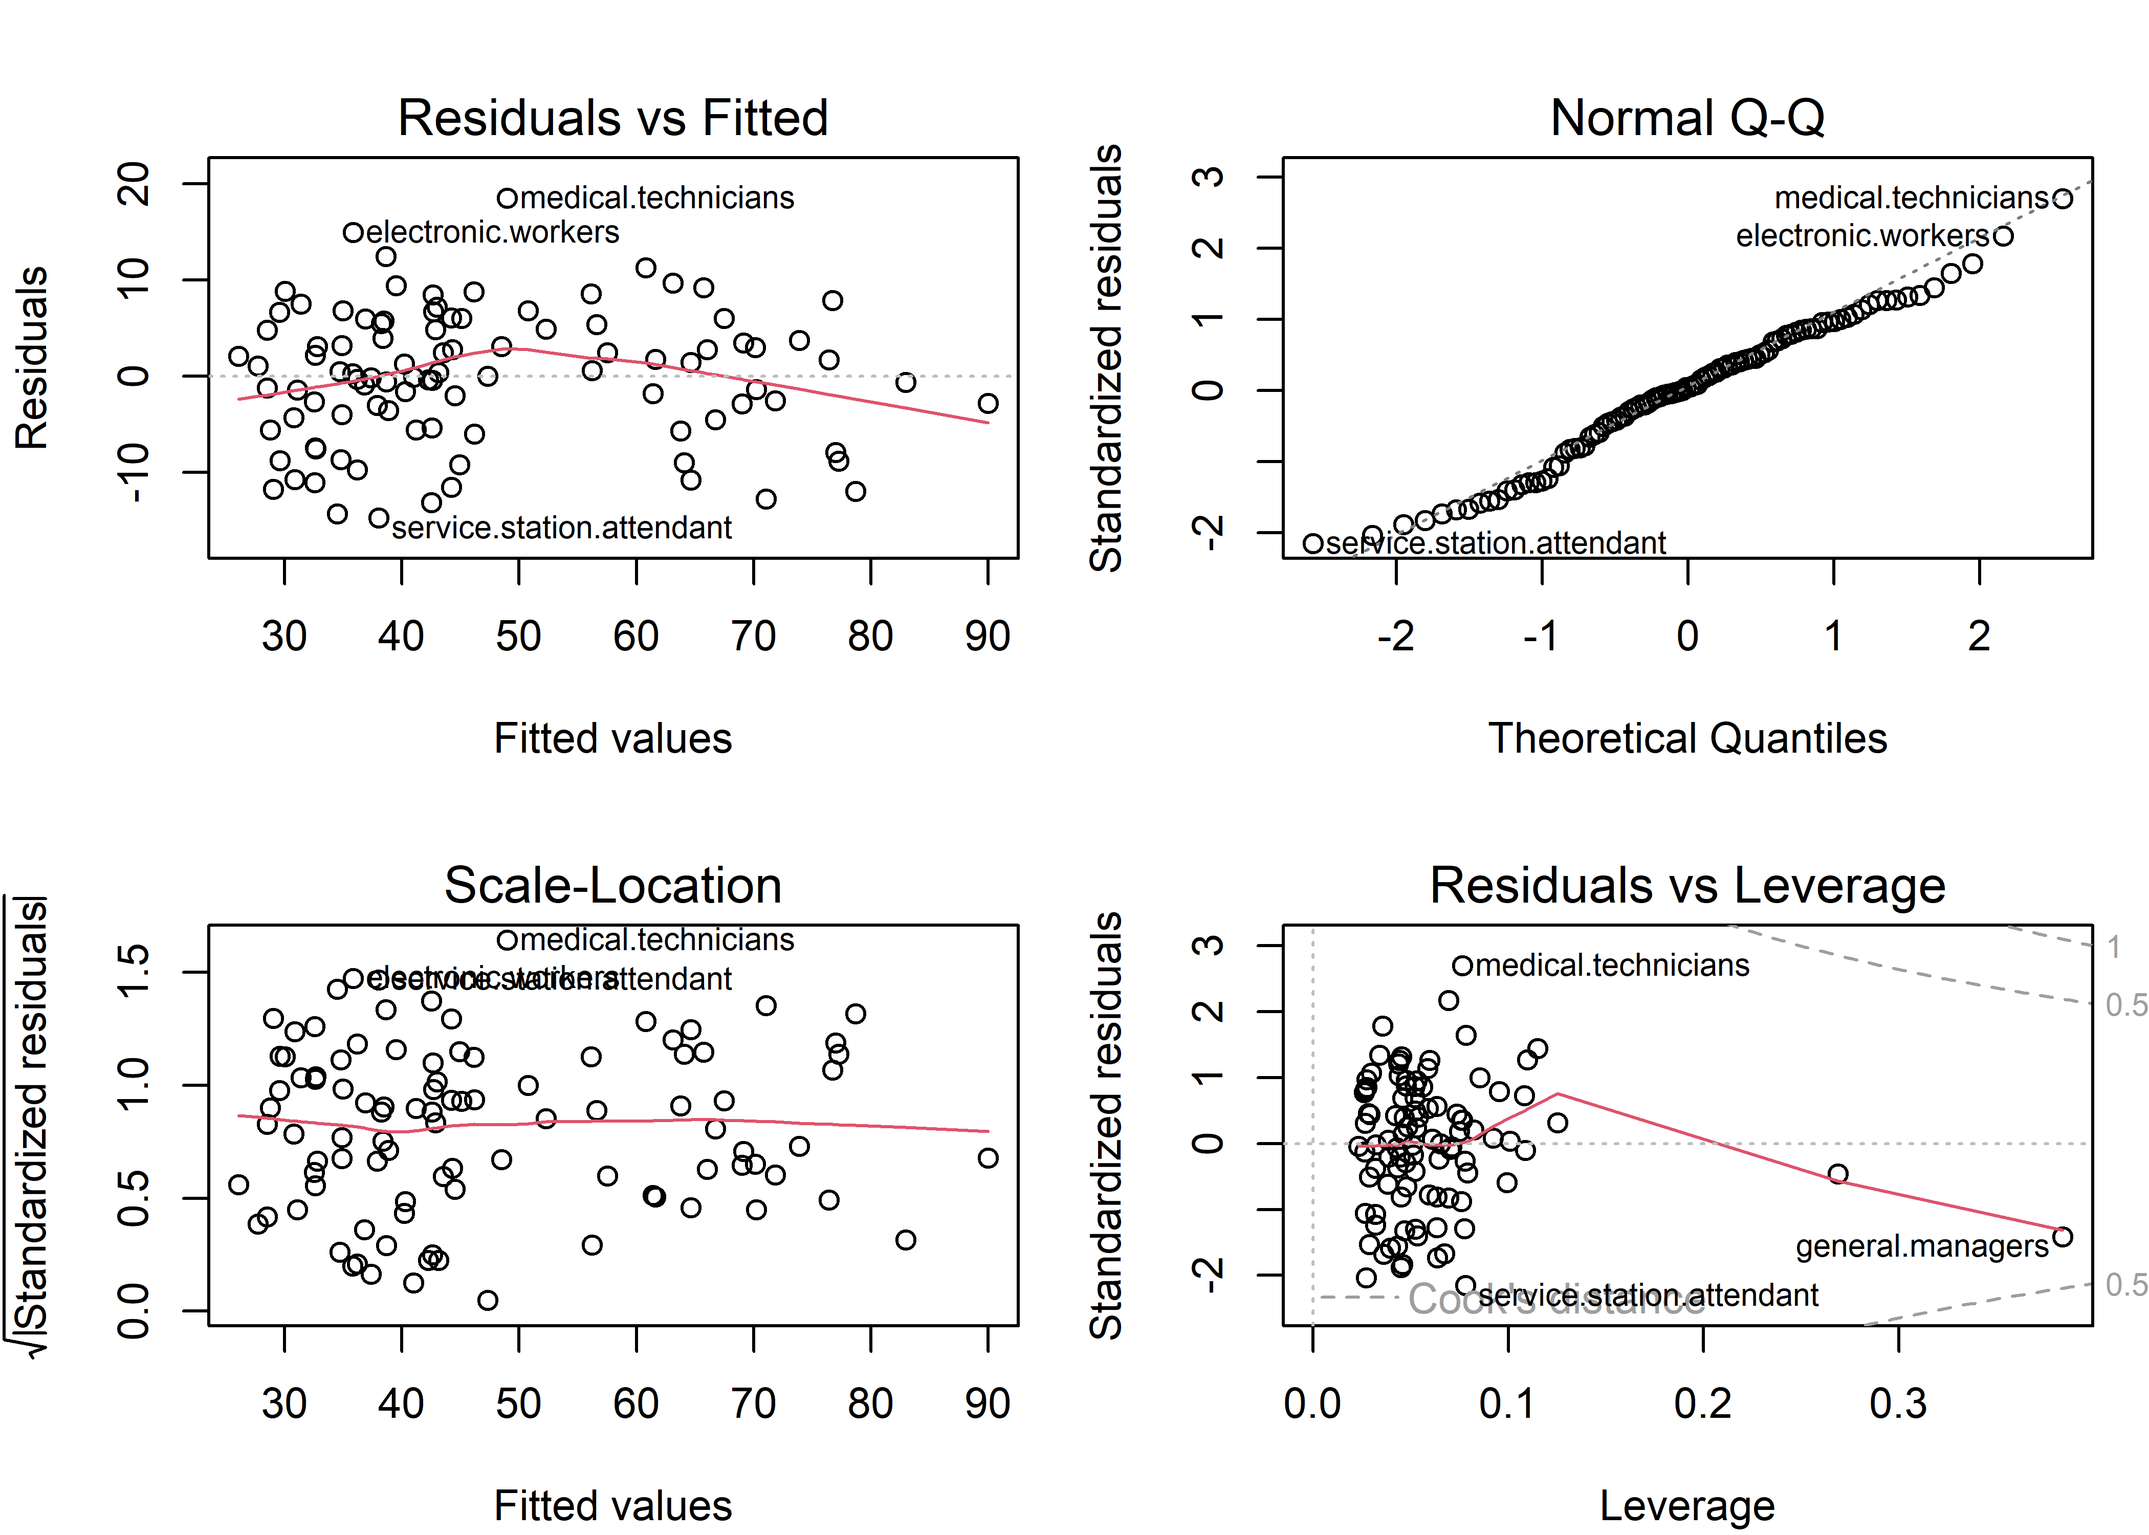
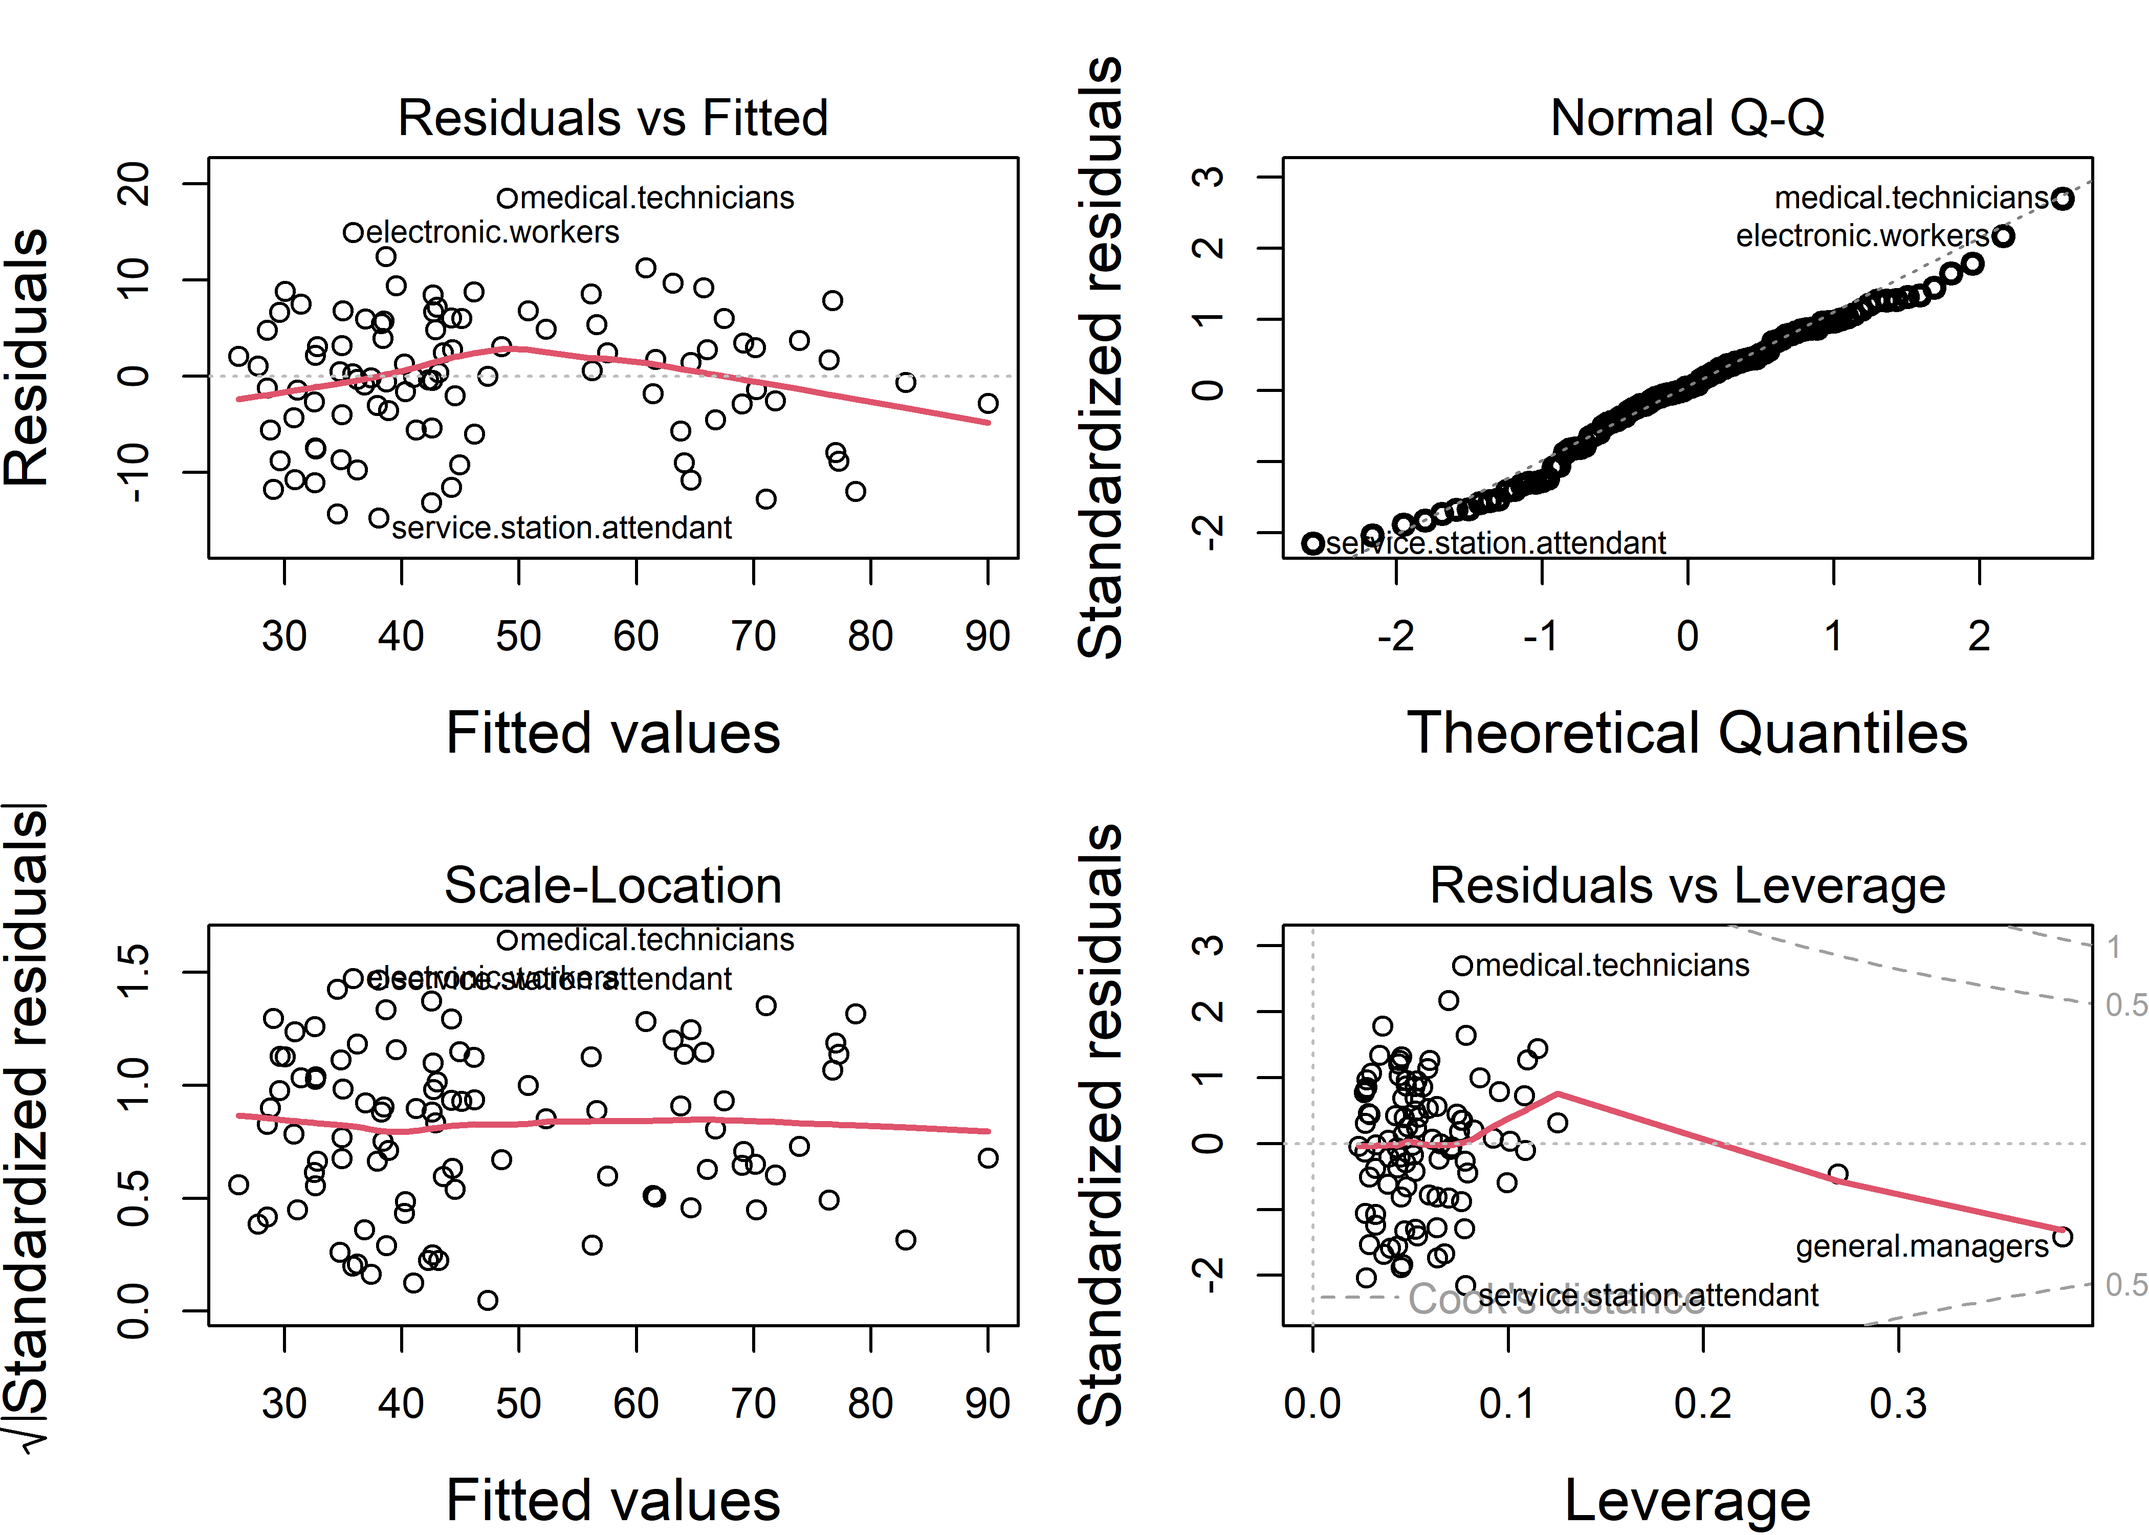
linear-models-plots.qmd

diff --git a/_book/linear_models-plots.html b/_book/linear_models-plots.html
@@ -227,7 +227,7 @@ div.csl-indent {
 </li>
         <li class="sidebar-item">
   <div class="sidebar-item-container"> 
-  <a href="./references.html" class="sidebar-item-text sidebar-link"><span class="chapter-number">12</span>&nbsp; <span class="chapter-title">| echo: false</span></a>
+  <a href="./references.html" class="sidebar-item-text sidebar-link">References</a>
   </div>
 </li>
     </ul>
@@ -266,7 +266,7 @@ div.csl-indent {
 <li><p>when there are two or more predictors, you can more easily understand their separate impact on the response by plotting the <em>marginal</em> effects of one or more focal variables, averaging over other variables not shown in a given plot.</p></li>
 <li><p>when there are highly correlated predictors, some specialized plots are useful to understand the nature of <em>multicolinearity</em>.</p></li>
 </ul>
-<p>The classic reference on regression diagnostics is <span class="citation" data-cites="Belsley-etal:80">Belsley, Kuh, and Welsch (<a href="#ref-Belsley-etal:80" role="doc-biblioref">1980</a>)</span>. My favorite modern texts are the brief <span class="citation" data-cites="Fox2020">J. D. Fox (<a href="#ref-Fox2020" role="doc-biblioref">2020</a>)</span> and <span class="citation" data-cites="FoxWeisberg:2018">J. Fox and Weisberg (<a href="#ref-FoxWeisberg:2018" role="doc-biblioref">2018</a>)</span>, which is supported by the <strong>car</strong> package <span class="citation" data-cites="R-car">(<a href="#ref-R-car" role="doc-biblioref">J. Fox, Weisberg, and Price 2023</a>)</span>.</p>
+<p>The classic reference on regression diagnostics is <span class="citation" data-cites="Belsley-etal:80">Belsley, Kuh, and Welsch (<a href="#ref-Belsley-etal:80" role="doc-biblioref">1980</a>)</span>. My favorite modern texts are the brief <span class="citation" data-cites="Fox2020">Fox (<a href="#ref-Fox2020" role="doc-biblioref">2020</a>)</span> and <span class="citation" data-cites="FoxWeisberg:2018">Fox and Weisberg (<a href="#ref-FoxWeisberg:2018" role="doc-biblioref">2018</a>)</span>, which is supported by the <strong>car</strong> package <span class="citation" data-cites="R-car">(<a href="#ref-R-car" role="doc-biblioref">Fox, Weisberg, and Price 2023</a>)</span>.</p>
 <section id="the-regression-quartet" class="level2" data-number="5.1"><h2 data-number="5.1" class="anchored" data-anchor-id="the-regression-quartet">
 <span class="header-section-number">5.1</span> The “regression quartet”</h2>
 <p>For a fitted model, plotting the model object with <code>plot(model)</code> provides for any of six basic plots, of which four are produced by default, giving rise to the term <em>regression quartet</em> for this collection. These are:</p>
@@ -303,15 +303,15 @@ div.csl-indent {
 <div class="cell" data-layout-align="center">
 <div class="sourceCode" id="cb3"><pre class="downlit sourceCode r code-with-copy"><code class="sourceCode R"><span><span class="va">op</span> <span class="op">&lt;-</span> <span class="fu"><a href="https://rdrr.io/r/graphics/par.html">par</a></span><span class="op">(</span>mfrow <span class="op">=</span> <span class="fu"><a href="https://rdrr.io/r/base/c.html">c</a></span><span class="op">(</span><span class="fl">2</span>,<span class="fl">2</span><span class="op">)</span>, </span>
 <span>          mar<span class="op">=</span><span class="fu"><a href="https://rdrr.io/r/base/c.html">c</a></span><span class="op">(</span><span class="fl">4</span>,<span class="fl">4</span>,<span class="fl">3</span>,<span class="fl">1</span><span class="op">)</span><span class="op">+</span><span class="fl">.1</span><span class="op">)</span></span>
-<span><span class="fu"><a href="https://rdrr.io/r/graphics/plot.default.html">plot</a></span><span class="op">(</span><span class="va">prestige.mod</span><span class="op">)</span></span></code><button title="Copy to Clipboard" class="code-copy-button"><i class="bi"></i></button></pre></div>
+<span><span class="fu"><a href="https://rdrr.io/r/graphics/plot.default.html">plot</a></span><span class="op">(</span><span class="va">prestige.mod</span>, lwd<span class="op">=</span><span class="fl">2</span>, cex.lab<span class="op">=</span><span class="fl">1.4</span><span class="op">)</span></span>
+<span><span class="fu"><a href="https://rdrr.io/r/graphics/par.html">par</a></span><span class="op">(</span><span class="va">op</span><span class="op">)</span></span></code><button title="Copy to Clipboard" class="code-copy-button"><i class="bi"></i></button></pre></div>
 <div class="cell-output-display">
 <div class="quarto-figure quarto-figure-center">
 <figure class="figure"><p><img src="figs/plot-prestige-mod-1.png" class="img-fluid figure-img" style="width:100.0%"></p>
-<p></p><figcaption class="figure-caption">Regression quartet of diagnostic plots for the <code>Prestige</code> data.</figcaption><p></p>
+<p></p><figcaption class="figure-caption">Regression quartet of diagnostic plots for the <code>Prestige</code> data. Several possibly unusual observations are labeled.</figcaption><p></p>
 </figure>
 </div>
 </div>
-<div class="sourceCode" id="cb4"><pre class="downlit sourceCode r code-with-copy"><code class="sourceCode R"><span><span class="fu"><a href="https://rdrr.io/r/graphics/par.html">par</a></span><span class="op">(</span><span class="va">op</span><span class="op">)</span></span></code><button title="Copy to Clipboard" class="code-copy-button"><i class="bi"></i></button></pre></div>
 </div>
 </section></section><section id="other-diagnostic-plots" class="level2" data-number="5.2"><h2 data-number="5.2" class="anchored" data-anchor-id="other-diagnostic-plots">
 <span class="header-section-number">5.2</span> Other Diagnostic plots</h2>
@@ -336,7 +336,7 @@ div.csl-indent {
 Belsley, D. A., E. Kuh, and R. E. Welsch. 1980. <em>Regression Diagnostics: Identifying Influential Data and Sources of Collinearity</em>. New York: John Wiley; Sons.
 </div>
 <div id="ref-Fox2020" class="csl-entry" role="doc-biblioentry">
-Fox, John David. 2020. <em>Regression Diagnostics</em>. 2nd ed. <span>SAGE</span> Publications, Inc. <a href="https://doi.org/10.4135/9781071878651">https://doi.org/10.4135/9781071878651</a>.
+Fox, John. 2020. <em>Regression Diagnostics</em>. 2nd ed. <span>SAGE</span> Publications, Inc. <a href="https://doi.org/10.4135/9781071878651">https://doi.org/10.4135/9781071878651</a>.
 </div>
 <div id="ref-FoxWeisberg:2018" class="csl-entry" role="doc-biblioentry">
 Fox, John, and Sandford Weisberg. 2018. <em>An r Companion to Applied Regression</em>. Third. Thousand Oaks <span>CA</span>: SAGE Publications. <a href="https://books.google.ca/books?id=uPNrDwAAQBAJ">https://books.google.ca/books?id=uPNrDwAAQBAJ</a>.

diff --git a/_book/references.html b/_book/references.html
@@ -4,7 +4,7 @@
 <meta charset="utf-8">
 <meta name="generator" content="quarto-1.1.189">
 <meta name="viewport" content="width=device-width, initial-scale=1.0, user-scalable=yes">
-<title>Visualizing Multivariate Data and Models in R - 12&nbsp; Package used</title>
+<title>Visualizing Multivariate Data and Models in R - References</title>
 <style>
 code{white-space: pre-wrap;}
 span.smallcaps{font-variant: small-caps;}
@@ -79,9 +79,7 @@ div.csl-indent {
 
 <div id="quarto-search-results"></div>
   <header id="quarto-header" class="headroom fixed-top"><nav class="quarto-secondary-nav" data-bs-toggle="collapse" data-bs-target="#quarto-sidebar" aria-controls="quarto-sidebar" aria-expanded="false" aria-label="Toggle sidebar navigation" onclick="if (window.quartoToggleHeadroom) { window.quartoToggleHeadroom(); }"><div class="container-fluid d-flex justify-content-between">
-      <h1 class="quarto-secondary-nav-title">
-<span class="chapter-number">12</span>&nbsp; <span class="chapter-title">Package used</span>
-</h1>
+      <h1 class="quarto-secondary-nav-title">References</h1>
       <button type="button" class="quarto-btn-toggle btn" aria-label="Show secondary navigation">
         <i class="bi bi-chevron-right"></i>
       </button>
@@ -165,23 +163,17 @@ div.csl-indent {
 </li>
         <li class="sidebar-item">
   <div class="sidebar-item-container"> 
-  <a href="./references.html" class="sidebar-item-text sidebar-link active"><span class="chapter-number">12</span>&nbsp; <span class="chapter-title">| echo: false</span></a>
+  <a href="./references.html" class="sidebar-item-text sidebar-link active">References</a>
   </div>
 </li>
     </ul>
 </div>
 </nav><!-- margin-sidebar --><div id="quarto-margin-sidebar" class="sidebar margin-sidebar">
-        <nav id="TOC" role="doc-toc" class="toc-active"><h2 id="toc-title">Table of contents</h2>
-   
-  <ul>
-<li><a href="#references" id="toc-references" class="nav-link active" data-scroll-target="#references">References</a></li>
-  </ul></nav>
+        
     </div>
 <!-- main -->
 <main class="content" id="quarto-document-content"><header id="title-block-header" class="quarto-title-block default"><div class="quarto-title">
-<h1 class="title d-none d-lg-block">
-<span class="chapter-number">12</span>&nbsp; <span class="chapter-title">Package used</span>
-</h1>
+<h1 class="title d-none d-lg-block">References</h1>
 </div>
 
 
@@ -193,14 +185,11 @@ div.csl-indent {
   </div>
   
 
-</header><div class="cell">
+</header><div id="refs" role="doc-bibliography">
 
 </div>
+<section id="package-used" class="level4"><h4 class="anchored" data-anchor-id="package-used">Package used</h4>
 <div class="cell" data-layout-align="center">
-
-</div>
-<section id="references" class="level1 unnumbered"><h1 class="unnumbered">References</h1>
-<div id="refs" role="doc-bibliography">
 
 </div>
 

diff --git a/_book/summary.html b/_book/summary.html
@@ -210,7 +210,7 @@ code span.wa { color: #60a0b0; font-weight: bold; font-style: italic; } /* Warni
 </li>
         <li class="sidebar-item">
   <div class="sidebar-item-container"> 
-  <a href="./references.html" class="sidebar-item-text sidebar-link"><span class="chapter-number">12</span>&nbsp; <span class="chapter-title">| echo: false</span></a>
+  <a href="./references.html" class="sidebar-item-text sidebar-link">References</a>
   </div>
 </li>
     </ul>
@@ -348,7 +348,7 @@ window.document.addEventListener("DOMContentLoaded", function (event) {
   </div>
   <div class="nav-page nav-page-next">
       <a href="./references.html" class="pagination-link">
-        <span class="nav-page-text"><span class="chapter-number">12</span>&nbsp; <span class="chapter-title">| echo: false</span></span> <i class="bi bi-arrow-right-short"></i>
+        <span class="nav-page-text">References</span> <i class="bi bi-arrow-right-short"></i>
       </a>
   </div>
 </nav>

diff --git a/_book/mlm-viz.html b/_book/mlm-viz.html
@@ -210,7 +210,7 @@ code span.wa { color: #60a0b0; font-weight: bold; font-style: italic; } /* Warni
 </li>
         <li class="sidebar-item">
   <div class="sidebar-item-container"> 
-  <a href="./references.html" class="sidebar-item-text sidebar-link"><span class="chapter-number">12</span>&nbsp; <span class="chapter-title">| echo: false</span></a>
+  <a href="./references.html" class="sidebar-item-text sidebar-link">References</a>
   </div>
 </li>
     </ul>

diff --git a/_book/linear_models.html b/_book/linear_models.html
@@ -145,7 +145,7 @@ ul.task-list li input[type="checkbox"] {
 </li>
         <li class="sidebar-item">
   <div class="sidebar-item-container"> 
-  <a href="./references.html" class="sidebar-item-text sidebar-link"><span class="chapter-number">12</span>&nbsp; <span class="chapter-title">| echo: false</span></a>
+  <a href="./references.html" class="sidebar-item-text sidebar-link">References</a>
   </div>
 </li>
     </ul>

diff --git a/_book/mlm-review.html b/_book/mlm-review.html
@@ -145,7 +145,7 @@ ul.task-list li input[type="checkbox"] {
 </li>
         <li class="sidebar-item">
   <div class="sidebar-item-container"> 
-  <a href="./references.html" class="sidebar-item-text sidebar-link"><span class="chapter-number">12</span>&nbsp; <span class="chapter-title">| echo: false</span></a>
+  <a href="./references.html" class="sidebar-item-text sidebar-link">References</a>
   </div>
 </li>
     </ul>

diff --git a/_book/case-studies.html b/_book/case-studies.html
@@ -229,7 +229,7 @@ div.csl-indent {
 </li>
         <li class="sidebar-item">
   <div class="sidebar-item-container"> 
-  <a href="./references.html" class="sidebar-item-text sidebar-link"><span class="chapter-number">12</span>&nbsp; <span class="chapter-title">| echo: false</span></a>
+  <a href="./references.html" class="sidebar-item-text sidebar-link">References</a>
   </div>
 </li>
     </ul>

diff --git a/_book/eqcov.html b/_book/eqcov.html
@@ -229,7 +229,7 @@ div.csl-indent {
 </li>
         <li class="sidebar-item">
   <div class="sidebar-item-container"> 
-  <a href="./references.html" class="sidebar-item-text sidebar-link"><span class="chapter-number">12</span>&nbsp; <span class="chapter-title">| echo: false</span></a>
+  <a href="./references.html" class="sidebar-item-text sidebar-link">References</a>
   </div>
 </li>
     </ul>

diff --git a/_book/getting_started.html b/_book/getting_started.html
@@ -227,7 +227,7 @@ div.csl-indent {
 </li>
         <li class="sidebar-item">
   <div class="sidebar-item-container"> 
-  <a href="./references.html" class="sidebar-item-text sidebar-link"><span class="chapter-number">12</span>&nbsp; <span class="chapter-title">| echo: false</span></a>
+  <a href="./references.html" class="sidebar-item-text sidebar-link">References</a>
   </div>
 </li>
     </ul>

diff --git a/_book/hotelling.html b/_book/hotelling.html
@@ -229,7 +229,7 @@ div.csl-indent {
 </li>
         <li class="sidebar-item">
   <div class="sidebar-item-container"> 
-  <a href="./references.html" class="sidebar-item-text sidebar-link"><span class="chapter-number">12</span>&nbsp; <span class="chapter-title">| echo: false</span></a>
+  <a href="./references.html" class="sidebar-item-text sidebar-link">References</a>
   </div>
 </li>
     </ul>

diff --git a/_book/index.html b/_book/index.html
@@ -228,7 +228,7 @@ div.csl-indent {
 </li>
         <li class="sidebar-item">
   <div class="sidebar-item-container"> 
-  <a href="./references.html" class="sidebar-item-text sidebar-link"><span class="chapter-number">12</span>&nbsp; <span class="chapter-title">| echo: false</span></a>
+  <a href="./references.html" class="sidebar-item-text sidebar-link">References</a>
   </div>
 </li>
     </ul>

diff --git a/_book/intro.html b/_book/intro.html
@@ -227,7 +227,7 @@ div.csl-indent {
 </li>
         <li class="sidebar-item">
   <div class="sidebar-item-container"> 
-  <a href="./references.html" class="sidebar-item-text sidebar-link"><span class="chapter-number">12</span>&nbsp; <span class="chapter-title">| echo: false</span></a>
+  <a href="./references.html" class="sidebar-item-text sidebar-link">References</a>
   </div>
 </li>
     </ul>
